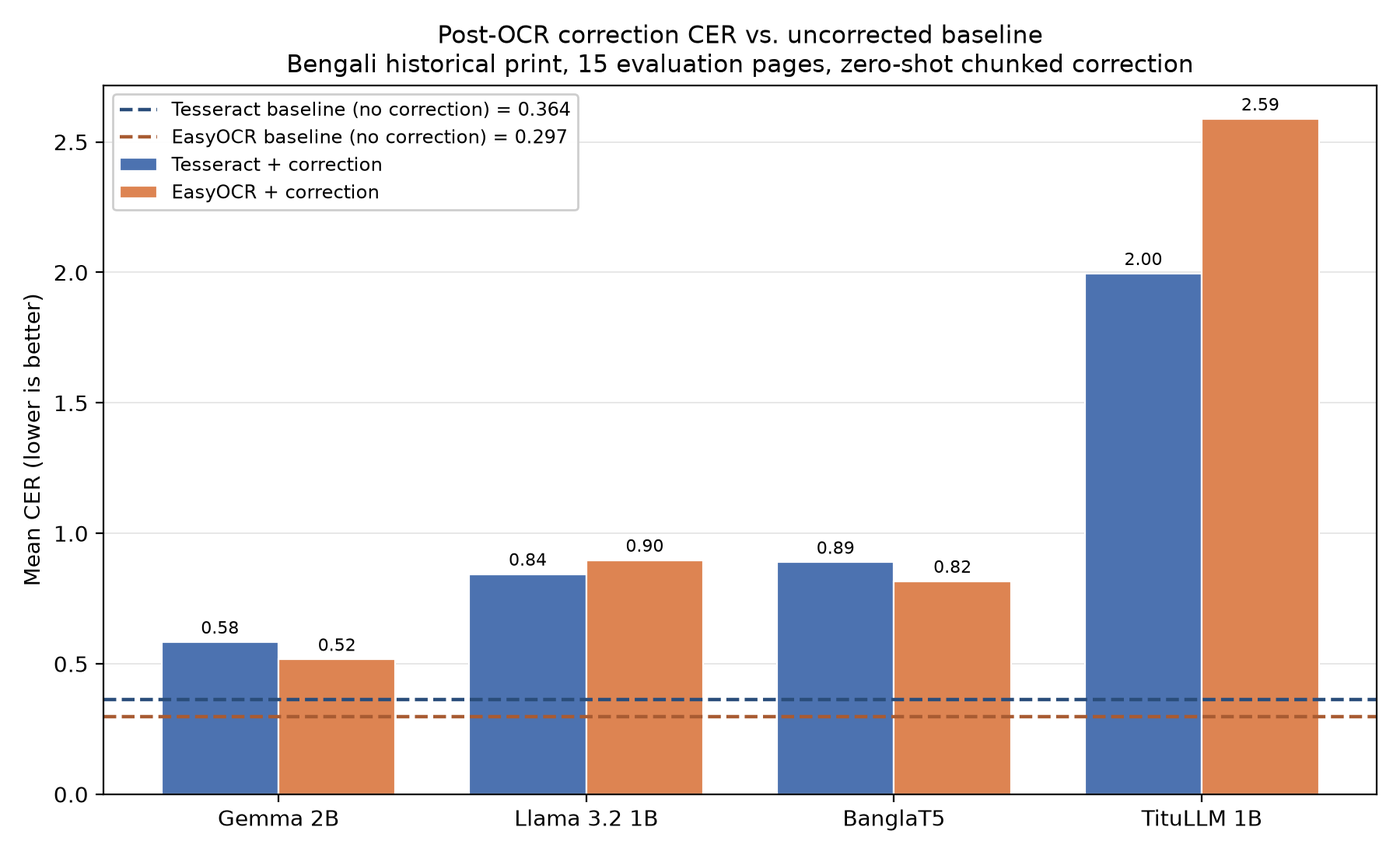
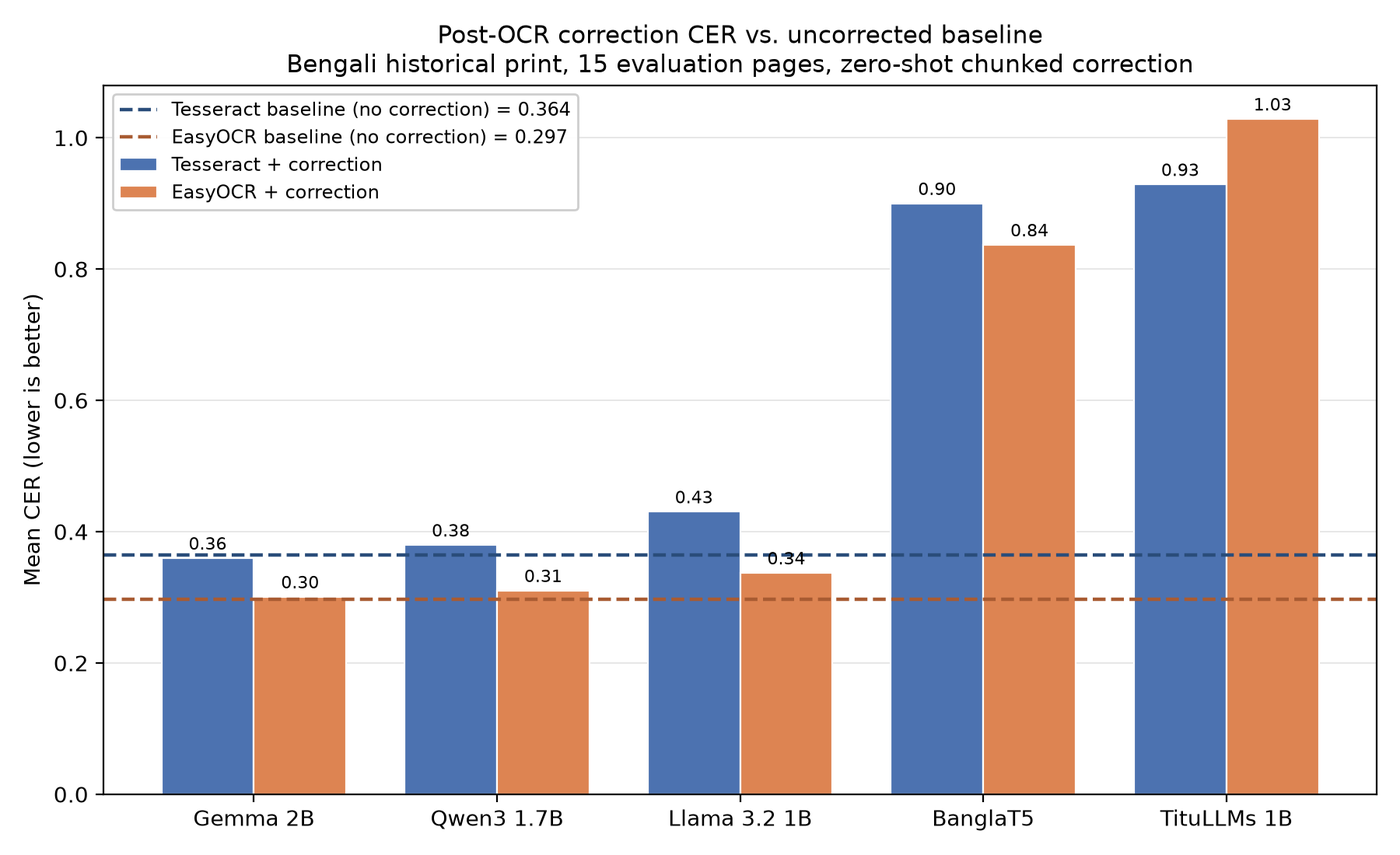
Rewrite Methods details, Results and Failure Analysis for plain decoding
Results now report the plain-decoding runs with Qwen3 1.7B added, a new
decoding-ablation subsection, measured parameter counts, and disclosure that
the repetition guards were added after seeing dev output. Figures 1-3 are
regenerated; the truncation figure and its correlation claim are dropped.
Title, abstract, introduction, discussion and conclusion are still stale.

diff --git a/paper/main.tex b/paper/main.tex
@@ -105,7 +105,7 @@ Two open-source engines produce the noisy text: Tesseract~\cite{smith2007tessera
 \subsection{Correction layer}
 \textbf{Zero-shot.} Here, zero-shot evaluation uses no worked correction examples or task-specific weight updates. The decoder models receive an instruction and the OCR text; BanglaT5 receives the text alone, as detailed below. We chose this setting because we know of no large public set of Bengali OCR error pairs for training, and because it avoids the cost of task-specific training.
 
-\textbf{Prompt.} The three decoder models receive the same instruction, through each model's chat template:
+\textbf{Prompt.} The four decoder models receive the same instruction, through each model's chat template:
 \begin{quote}
 \small\itshape
 The following text was produced by OCR on a historical Bengali document and may contain recognition errors. Correct the OCR errors and output only the corrected Bengali text, with no explanation, preamble, or additional commentary.
@@ -114,16 +114,17 @@ The OCR text follows the instruction. BanglaT5 is not instruction-tuned and has 
 
 \textbf{Chunking.} Following Kanerva et al.~\cite{kanerva2025nofreelunches}, each page is divided into chunks of about 250 tokens of the model's own tokenizer before correction. Chunks are formed by grouping complete lines, so no chunk boundary falls inside a line. A page whose raw OCR is shorter than ten characters would be left unchanged, since the model would have almost nothing to work from; no evaluation page triggered this rule.
 
-\textbf{Decoding.} Decoding is greedy, so output is deterministic. We use a repetition penalty of 1.3 and forbid repeated four-grams, a guard added after a development-set run in which one model repeated a single phrase until it reached the length limit. The maximum number of new tokens is $\min(512,\max(64,1.5n))$, where $n$ is the token length of the input chunk. An output that reaches this limit is counted as truncated.
+\textbf{Decoding.} Decoding is greedy, so output is deterministic. The maximum number of new tokens is $\min(512,\max(64,1.5n))$, where $n$ is the token length of the input chunk, and an output that reaches this limit is counted as truncated. No other constraint is applied. Our first runs also used a repetition penalty of 1.3 and banned repeated four-grams. We added these two settings after a development-set run in which one model repeated a single phrase until it reached the length limit, so, unlike the prompt, they were chosen after seeing model output. In the generation function of the Transformers library~\cite{wolf2020transformers}, both settings act on the whole token sequence, which for a decoder-only model includes the prompt and therefore the OCR text being corrected. They penalise every token the model copies from its input and forbid it from reproducing any four-token run of that input. Because correction consists mostly of copying, we use the setting without them as the main condition and report the original setting as a decoding ablation (Section~\ref{sec:decoding}).
 
 \subsection{Choice of models}
-We planned five models and evaluated four, all small enough for CPU inference. Phi-3 Mini (3.8B) was implemented but not run to completion: even the four evaluated models took between about two and fourteen minutes per page on average, and up to 26 minutes for one page, and a 3.8-billion-parameter model did not fit the available budget.
+We evaluate five models, all small enough for CPU inference. The parameter counts below are computed from each checkpoint's configuration, with tied input and output embeddings counted once.
 \begin{itemize}
-\item \emph{Llama 3.2 1B}~\cite{meta2024llama32} and \emph{Gemma 2B}~\cite{gemma2024} are widely used open instruction-tuned models that represent general-purpose multilingual models. Bengali is a very small share of their pretraining data~\cite{zehady2026banglallama}.
+\item \emph{Llama 3.2 1B} (1.24B parameters)~\cite{meta2024llama32} and \emph{Gemma 2B} (2.51B)~\cite{gemma2024} are open instruction-tuned models that represent general-purpose multilingual models. Bengali is a very small share of their pretraining data~\cite{zehady2026banglallama}.
+\item \emph{Qwen3 1.7B} (1.72B)~\cite{yang2025qwen3} is a general-purpose model released in 2025, added in revision to test whether a more recent model behaves differently. It can produce a reasoning trace before its answer; we disable this through its chat template, so it answers directly.
 \item \emph{TituLLMs 1B}~\cite{nahin2025titullms} is a Bengali-pretrained model built on Llama 3.2 1B with an extended tokenizer. It has the same size and base architecture as Llama 3.2 1B, which supports a comparison at a similar parameter count. The extended tokenizer and possible differences in other training details prevent this comparison from isolating the effect of Bengali pretraining.
 \item \emph{BanglaT5} (about 248M parameters)~\cite{bhattacharjee2023banglat5} is a Bengali sequence-to-sequence model. Its text-to-text architecture provides a sequence-to-sequence baseline for correction. It is used as released, without fine-tuning.
 \end{itemize}
-BanglaBERT~\cite{bhattacharjee2022banglabert} was not considered because it is an encoder and cannot generate corrected text. All models are loaded with the Transformers library~\cite{wolf2020transformers} in bfloat16.
+Phi-3 Mini (3.8B) was implemented but not run to completion: the evaluated models took between about two and fourteen minutes per page on average, and up to 30 minutes for one page, and a 3.8-billion-parameter model did not fit the available budget. BanglaBERT~\cite{bhattacharjee2022banglabert} was not considered because it is an encoder and cannot generate corrected text. All models are loaded with the Transformers library~\cite{wolf2020transformers} in bfloat16.
 
 \subsection{Deployment setting}
 All models run in CPU-only mode on a free Google Colab runtime. This approximates the setting that motivates the work: institutions in Bangladesh that process large volumes of Bengali documents and typically lack GPU infrastructure. No paid API is used at any stage.
@@ -131,7 +132,7 @@ All models run in CPU-only mode on a free Google Colab runtime. This approximate
 \subsection{Evaluation protocol}
 \textbf{Normalisation and metrics.} Before scoring, reference and hypothesis are normalised to Unicode NFC and runs of whitespace are collapsed, because Bengali conjuncts and vowel signs can be encoded as different codepoint sequences that look identical. CER and WER are computed with jiwer~\cite{vaessen2022jiwer} for each page and averaged over pages, so every page counts equally regardless of its length. CER is unbounded: an output with more erroneous characters than the reference has characters scores above 1. We therefore also report the character match error rate, $\mathrm{cMER}=(S+D+I)/(H+S+D+I)$, which counts insertions in the denominator and is bounded in $[0,1]$~\cite{ehrmann2026hipeocrepair}. Here $H$, $S$, $D$ and $I$ are the numbers of matched, substituted, deleted and inserted characters.
 
-\textbf{Statistical testing.} For each engine and model, the unit of analysis is the per-page difference between the corrected and the uncorrected error rate. We report the mean difference with a 95\% percentile interval from a paired bootstrap of the 15 pages (10{,}000 resamples, seed 403). We also run a two-sided Wilcoxon signed-rank test~\cite{wilcoxon1945} on the same differences and adjust the $p$-values with the Holm procedure~\cite{holm1979} over the 16 CER and WER tests, which follows the reporting of Viana~\cite{viana2026reframing}.
+\textbf{Statistical testing.} For each engine and model, the unit of analysis is the per-page difference between the corrected and the uncorrected error rate. We report the mean difference with a 95\% percentile interval from a paired bootstrap of the 15 pages (10{,}000 resamples, seed 403). We also run a two-sided Wilcoxon signed-rank test~\cite{wilcoxon1945} on the same differences and adjust the $p$-values with the Holm procedure~\cite{holm1979} over the 20 CER and WER tests, which follows the reporting of Viana~\cite{viana2026reframing}.
 
 \textbf{Validation.} The held-out split was frozen before any model ran, and development pages are never scored. We used one fixed held-out evaluation set and did not perform cross-validation. No model was trained, and deterministic decoding was not repeated with different seeds. Each page is paired with its own uncorrected text.
 
@@ -147,83 +148,84 @@ The page lists, the correction prompt, and the OCR, correction, scoring and stat
 % =====================================================================
 \section{Results}
 
-Results compare each corrected output with its corresponding raw OCR baseline. We also examine differences between engines, variation across pages and results under the bounded error metric.
+Results compare each corrected output with its corresponding raw OCR baseline. Unless stated otherwise, they use plain greedy decoding (Section~\ref{sec:decoding} reports the original decoding setting). We also examine differences between engines, variation across pages and results under the bounded error metric.
 
 \subsection{Baseline OCR performance}
-Table~\ref{tab:baseline} gives the error rates of the raw OCR text before any correction. EasyOCR is better than Tesseract on all three metrics (CER 0.297 against 0.364). This agrees with the weakness of Tesseract on Bengali reported in earlier work~\cite{zulkarnain2023bbocr,rabby2024enhancement}. We did not find a published comparison of the two engines on historical Bengali print, and our pages are 19th-century books, several of them verse or title pages in ornate type, on which EasyOCR appears to degrade less. Both baselines are high in absolute terms: EasyOCR, the better engine, has a CER of 0.297 and a WER of 0.719.
+Table~\ref{tab:baseline} gives the error rates of the raw OCR text before any correction. EasyOCR is better than Tesseract on all three metrics (CER 0.297 against 0.364). This agrees with the high Tesseract error rates on Bengali reported in earlier work~\cite{zulkarnain2023bbocr,rabby2024enhancement}. We did not find a published comparison of the two engines on historical Bengali print. Both baselines are high in absolute terms: EasyOCR, the better engine, has a CER of 0.297 and a WER of 0.719.
 
 \input{tables/baseline}
 
 \subsection{Effect of correction}
-Table~\ref{tab:matrix} gives the full evaluation matrix, and Figs.~\ref{fig:cer} and~\ref{fig:ci} show the same result graphically. Both metrics increased in all eight engine-and-model combinations. Fifteen of the 16 resulting increases (two metrics per combination) are significant, both under the bootstrap and under the Holm-corrected Wilcoxon test. The one exception is Tesseract with BanglaT5 on WER, whose interval spans zero ($[-0.101,+0.397]$, Holm $p=0.15$). The largest effect is TituLLMs on EasyOCR output, where CER rises from 0.297 to 2.588, about nine times the baseline. A CER above 1 means the output contains more erroneous characters than the reference has characters.
+Table~\ref{tab:matrix} gives the full evaluation matrix, and Figs.~\ref{fig:cer} and~\ref{fig:ci} show the same result graphically. No model lowered the mean error rate significantly for either engine. Of the 20 CER and WER comparisons, six are significant after Holm correction, and all six are increases: BanglaT5 on CER and TituLLMs on CER and WER, for both engines. TituLLMs on EasyOCR output has the largest increase, from a CER of 0.297 to 1.029.
+
+The three general-purpose models stay close to the baseline. Gemma 2B ends at a CER of 0.360 on Tesseract output and 0.301 on EasyOCR output, against baselines of 0.364 and 0.297, and Qwen3 1.7B at 0.380 and 0.310; none of these differences is significant, and every bootstrap interval spans zero. Llama 3.2 1B raises CER to 0.430 and 0.337. Its bootstrap intervals lie above zero ($[+0.018,+0.116]$ and $[+0.005,+0.082]$), but the Holm-corrected Wilcoxon test does not reject the null hypothesis ($p=0.16$ and $p=0.36$). Its WER does not change significantly.
 
 \input{tables/eval_matrix}
 
 \begin{figure}[t]
 \centering
 \includegraphics[width=\columnwidth]{figures/fig1_cer_by_model.png}
-\caption{Mean CER over the 15 pages after correction, by model and OCR engine. The dashed lines mark the uncorrected baselines (Tesseract 0.364, EasyOCR 0.297). Every bar lies above both baselines.}
+\caption{Mean CER over the 15 pages after correction, by model and OCR engine. The dashed lines mark the uncorrected baselines (Tesseract 0.364, EasyOCR 0.297).}
 \label{fig:cer}
 \end{figure}
 
 \begin{figure}[t]
 \centering
 \includegraphics[width=\columnwidth]{figures/fig2_bootstrap_ci.png}
-\caption{Mean change in CER (corrected minus uncorrected) for each model and engine, with 95\% paired-bootstrap intervals over the 15 pages. A value above zero means correction made the text worse. Every interval lies to the right of zero, and the two engines nearly coincide for three of the four models.}
+\caption{Mean change in CER (corrected minus uncorrected) for each model and engine, with 95\% paired-bootstrap intervals over the 15 pages. A value above zero means correction made the text worse.}
 \label{fig:ci}
 \end{figure}
 
+\subsection{Effect of the decoding setting}
+\label{sec:decoding}
+Table~\ref{tab:decoding} compares the original decoding setting, with the repetition penalty and the four-gram ban, against plain greedy decoding. For the three decoder-only models that were run in both settings, removing the two constraints lowered CER significantly for both engines: by 0.22 for Gemma 2B, by 0.41 and 0.56 for Llama 3.2 1B, and by 1.07 and 1.56 for TituLLMs. Under the original setting Gemma 2B raised CER from 0.364 to 0.583 and from 0.297 to 0.517; under plain decoding it returns the input almost unchanged, with a median CER of 0.012 and 0.005 between its output and its own input. Most of the error increase that the original setting produced for these models is therefore attributable to the decoding constraints and not to the models' corrections. BanglaT5, an encoder-decoder model whose decoder does not see the input tokens as its own history, changed by 0.011 and 0.020. Qwen3 1.7B was added after this comparison and was run with plain decoding only.
+
+\input{tables/decoding}
+
 \subsection{The engine-agnostic question}
-Correction increased the error rate for both engines, although the size of the increase differed by model. For Gemma 2B and BanglaT5 the CER differences agree to within 0.01 (0.219 against 0.220, and 0.525 against 0.519), and for Llama 3.2 1B to within 0.12 (0.480 against 0.600). TituLLMs differs more (1.632 against 2.291), but is the worst model for both engines. The direction was consistent across the two engines; these descriptive comparisons do not establish equivalence in effect size.
+The ranking of the models is the same for both engines: Gemma 2B, Qwen3 1.7B, Llama 3.2 1B, BanglaT5 and TituLLMs, from lowest to highest corrected CER. The changes in CER agree closely for Gemma 2B ($-0.004$ against $+0.004$), Qwen3 1.7B ($+0.016$ against $+0.013$) and BanglaT5 ($+0.536$ against $+0.540$), and less closely for Llama 3.2 1B ($+0.066$ against $+0.040$) and TituLLMs ($+0.565$ against $+0.732$), Tesseract first. These are descriptive comparisons; they do not establish equivalence in effect size.
 
 \subsection{Per-page analysis}
-Across the 120 page-level cells (15 pages, 4 models, 2 engines), correction lowered CER in three (2.5\%). All three are on the same page, the Tesseract page with the highest baseline CER (0.882); the lowest corrected CER on that page is 0.803. On the bounded cMER, none of the 120 cells improved. Figure~\ref{fig:perpage} shows the baseline curve below every model on every page except that one.
+Across the 150 page-level cells (15 pages, 5 models, 2 engines), correction lowered CER in 27: 14 for Qwen3 1.7B, 9 for Gemma 2B and 4 for Llama 3.2 1B. BanglaT5 and TituLLMs lowered CER on no page. Figure~\ref{fig:perpage} shows that the general-purpose models track the baseline closely, while BanglaT5 and TituLLMs stay near or above a CER of 0.8 on most pages.
 
-The size of the increase also varies with page difficulty. When the pages are split into thirds by baseline CER, the increase in CER is smallest on the hardest third in each of the eight engine-and-model cells. For Llama 3.2 1B on Tesseract output, for example, the increase is $+0.69$ on the easiest third and $+0.23$ on the hardest. The HIPE-OCRepair task also reports over-correction of low-noise input~\cite{ehrmann2026hipeocrepair}.
+For the models that changed the text substantially, the increase depends on page difficulty. When the pages are split into thirds by baseline CER, BanglaT5 and TituLLMs have their smallest increase on the hardest third for both engines; for TituLLMs on Tesseract output, for example, the increase is $+0.85$ on the easiest third and $+0.26$ on the hardest. Llama 3.2 1B shows the same pattern on a smaller scale ($+0.10$ on the easiest third of Tesseract pages and $-0.002$ on the hardest). The changes for Gemma 2B and Qwen3 1.7B stay within 0.03 of zero in every third. The HIPE-OCRepair task also reports over-correction of low-noise input~\cite{ehrmann2026hipeocrepair}.
 
 \begin{figure*}[t]
 \centering
 \includegraphics[width=0.9\textwidth]{figures/fig3_per_page.png}
-\caption{CER per evaluation page, with pages sorted from easiest to hardest by baseline CER, for Tesseract (left) and EasyOCR (right). The solid black line is the uncorrected baseline; each dashed line is one correction model. The baseline lies below every model on every page except the hardest Tesseract page, where three models end below it.}
+\caption{CER per evaluation page, with pages sorted from easiest to hardest by baseline CER, for Tesseract (left) and EasyOCR (right). The solid black line is the uncorrected baseline; each dashed line is one correction model.}
 \label{fig:perpage}
 \end{figure*}
 
 \subsection{Bounded error rate}
-Because CER can exceed 1, we repeated the analysis with cMER (Table~\ref{tab:damage}). The baseline cMER is 0.336 for Tesseract and 0.257 for EasyOCR, and the corrected values range from 0.471 to 0.889. TituLLMs, whose CER reached 2.588, has a cMER of 0.876 on Tesseract text and 0.880 on EasyOCR text. The two scales therefore differ most for TituLLMs, but the conclusion is the same on both: all eight cMER tests are significant after Holm correction.
+Because CER can exceed 1, we repeated the analysis with cMER (Table~\ref{tab:damage}). The baseline cMER is 0.336 for Tesseract and 0.257 for EasyOCR. Six of the ten cMER tests are significant after Holm correction, all of them increases: Llama 3.2 1B (0.416 and 0.306), BanglaT5 (0.900 and 0.835) and TituLLMs (0.703 and 0.669). Gemma 2B (0.336 and 0.262) and Qwen3 1.7B (0.353 and 0.272) do not differ significantly from the baseline. The two metrics therefore agree except for Llama 3.2 1B, whose CER increase is not significant after Holm correction but whose cMER increase is.
 
 % =====================================================================
 \section{Failure Analysis}
 
-To characterize the observed error increases, we examine word retention, edit operations and truncation. We then evaluate whether a length-based fallback reduces those increases.
+To characterize what correction changed, we examine word retention, edit operations and truncation. We then evaluate whether a length-based fallback reduces the error increases.
 
 \subsection{Word retention and word-level changes}
-Table~\ref{tab:diagnostics} reports how many ground-truth words each output retains. Raw Tesseract output keeps 46\% of the distinct ground-truth words and raw EasyOCR output 55\%. After correction, retention falls to 13\% for Gemma 2B and to between 2\% and 4\% for the other three models. The word-level counts in Table~\ref{tab:damage} separate correct words that were changed from wrong words that were fixed. Of the words that the raw OCR had read correctly, the models broke between 76\% and 99.5\%, and of the words it had read wrongly they fixed between 0.9\% and 5.5\%. The change ratio is above 1 for every model: it is 1.7 to 1.9 for Gemma 2B and 10.0 to 14.2 for TituLLMs.
+Table~\ref{tab:diagnostics} reports how many ground-truth words each output retains. Raw Tesseract output keeps 46\% of the distinct ground-truth words and raw EasyOCR output 55\%. Pooled over both engines, Gemma 2B and Qwen3 1.7B keep 49\% and 50\%, Llama 3.2 1B 45\%, TituLLMs 17\% and BanglaT5 2\%. The word-level counts in Table~\ref{tab:damage} separate correct words that were changed from wrong words that were fixed. Gemma 2B broke 1\% and 3\% of the words the raw OCR had right and fixed almost none of those it had wrong (0.4\% and 0.0\%). Qwen3 1.7B is the only model whose repairs come close to its damage: on Tesseract text it fixed 47 wrong words and broke 62 correct ones, and on EasyOCR text 42 and 45. Llama 3.2 1B broke 15\% and 10\% and fixed 0.8\% and 1.8\%. BanglaT5 and TituLLMs broke between 76\% and 99\% of the correct words. The change ratio is below 1 for the three general-purpose models (0.1 for Gemma 2B, 0.3 to 0.4 for Qwen3 1.7B and 0.5 to 0.8 for Llama 3.2 1B) and above 4 for BanglaT5 and TituLLMs.
 
 \input{tables/diagnostics}
 
 \input{tables/damage}
 
 \subsection{Edit profiles by model}
-The models differ in which edit operations increase. The counts below are per page, measured against the ground truth.
+The models differ in which edit operations change. The counts below are per page, measured against the ground truth.
 
-\emph{BanglaT5.} Its output is on average 0.34 times the reference length. Deletions rise from 72 to 667 per page on Tesseract text and from 64 to 524 on EasyOCR text, and insertions fall to near zero. The output is often a short string of punctuation and digits. BanglaT5 is not instruction-tuned and was not fine-tuned for correction, which may account for this, but we did not test it.
+\emph{BanglaT5.} Its output is on average 0.33 times the reference length. Deletions rise from 72 to 671 per page on Tesseract text and from 64 to 537 on EasyOCR text, and insertions fall to near zero. Over a third of its non-space output characters are neither Bengali nor Latin letters, that is, punctuation, ASCII digits and other symbols. BanglaT5 is not instruction-tuned and was not fine-tuned for correction, which may account for this, but we did not test it.
 
-\emph{TituLLMs.} Its output is 2.58 times the reference length, 40\% of its characters are Bengali and 34\% are Latin, and it reached the generation limit on all 30 pages (15 per engine). Insertions rise from 37 to 1{,}106 per page on Tesseract text and from 72 to 1{,}604 on EasyOCR text; between 44\% and 52\% of its output consists of runs of at least six characters absent from the input. On one devotional page (14076\_a\_2\_0006) the output is English commentary on a word from the first line instead of corrected Bengali text. It begins by explaining the word as meaning to be at war against one's enemies and as an epithet of Indra, goes on to discuss figures from Sanatan mythology that do not appear in the input, and continues in English for several more sentences. The prompt asked for the corrected Bengali text only.
+\emph{TituLLMs.} Its output is 1.40 times the reference length, and it reached the generation limit on all 30 pages (15 per engine). Substitutions rise from 135 to 468 per page on Tesseract text and from 93 to 405 on EasyOCR text, and insertions from 37 to 318 and from 72 to 444. In 17 of its 30 outputs, a segment of at least 20 characters (split at danda, line breaks and vertical bars) recurs three or more times; no other model produced such a repetition. Under the original decoding setting the same model produced English commentary instead (34\% of its output characters were Latin, against 1\% with plain decoding). On one devotional page (14076\_a\_2\_0006) that output explained a word from the first line as meaning to be at war against one's enemies and as an epithet of Indra, and went on to discuss figures from Sanatan mythology that do not appear in the input.
 
-\emph{Llama 3.2 1B.} Substitutions more than triple, from 135 to 447 per page on Tesseract text and from 93 to 414 on EasyOCR text, and it reached the generation limit on 19 of the 30 pages. \emph{Gemma 2B} has the output length closest to the reference (0.88 times) and never reached the generation limit. It has the smallest CER increase, but its edit counts also rise: on Tesseract text, substitutions go from 135 to 193 and deletions from 72 to 206 per page.
+\emph{Llama 3.2 1B.} Deletions more than double, from 72 to 174 per page on Tesseract text and from 64 to 115 on EasyOCR text, while insertions fall. Its output is 0.88 times the reference length. \emph{Gemma 2B} and \emph{Qwen3 1.7B} have output lengths close to the reference (0.98 and 1.04 times) and change little: the CER between Gemma's output and its own input averages 0.02 for both engines, and for Qwen3 1.7B 0.09 and 0.04. Gemma 2B leaves the per-page substitution, deletion and insertion counts nearly unchanged (135 to 134, 72 to 75 and 37 to 32 on Tesseract text).
 
 \subsection{Truncation}
-Across the eight engine-and-model conditions, the rate of truncation correlates with mean CER at $r=0.84$ (Fig.~\ref{fig:trunc}). Truncation may be a symptom of degenerate output and not an independent cause, but we did not test this. BanglaT5 reached the generation limit on only one page of 15 per engine, yet its CER on Tesseract text is 0.889, so a high error rate does not require truncation.
-
-\begin{figure}[t]
-\centering
-\includegraphics[width=\columnwidth]{figures/fig4_truncation.png}
-\caption{Truncation rate against mean CER for the eight engine-and-model conditions. Each point is one condition; the horizontal axis is the percentage of pages on which the output reached the generation limit, and the vertical axis is the mean CER of the corrected text. The correlation is $r=0.84$.}
-\label{fig:trunc}
-\end{figure}
+TituLLMs reached the generation limit on every page. The other models reached it on at most two of the 15 pages per engine: never for Gemma 2B, on one page for Qwen3 1.7B and Llama 3.2 1B, and on two for BanglaT5.
 
 \subsection{Effect of the length safeguard}
-The last column of Table~\ref{tab:damage} applies the length safeguard. The safeguard reduces some errors associated with large changes in output length: TituLLMs falls back to the raw OCR on 5 to 7 of 15 pages, and BanglaT5 on Tesseract text on 13 of 15, which cuts its CER from 0.889 to 0.434. Even so, no model beats the uncorrected text. In seven of the eight conditions, the safeguarded output is still significantly worse than the raw OCR after Holm correction. The exception is BanglaT5 on Tesseract text, which ends 0.07 above the baseline (not significant after Holm correction); 13 of its 15 pages revert to the raw OCR, so most outputs in that condition are unchanged OCR text. Gemma 2B triggers the safeguard on at most one page, since its outputs stay close to the input length.
+The last column of Table~\ref{tab:damage} applies the length safeguard. Only BanglaT5 triggers it, on 13 of 15 Tesseract pages and 7 of 15 EasyOCR pages. Its safeguarded CER falls from 0.900 to 0.429 and from 0.837 to 0.559, which is still above the baseline but no longer significantly different from it after Holm correction ($p=0.72$ and $p=0.09$); on Tesseract text most of its pages simply revert to the raw OCR. TituLLMs never triggers the safeguard, because its outputs stay within the 0.35 to 2.8 length range, and it remains significantly worse than the raw OCR ($p<0.001$ for both engines). The outputs of the other three models are never replaced, so their scores do not change. No safeguarded output is significantly better than the raw OCR.
 
 % =====================================================================
 \section{Discussion}

diff --git a/eval/make_figures.py b/eval/make_figures.py
@@ -27,12 +27,13 @@ from metrics import score_pair
 REPO_ROOT = Path(__file__).resolve().parent.parent
 
 # Fixed order best-to-worst so every figure tells the story the same way.
-MODEL_ORDER = ["gemma-2b", "llama3.2-1b", "banglat5", "titullm-1b"]
+MODEL_ORDER = ["gemma-2b", "qwen3-1.7b", "llama3.2-1b", "banglat5", "titullm-1b"]
 MODEL_LABELS = {
     "gemma-2b": "Gemma 2B",
+    "qwen3-1.7b": "Qwen3 1.7B",
     "llama3.2-1b": "Llama 3.2 1B",
     "banglat5": "BanglaT5",
-    "titullm-1b": "TituLLM 1B",
+    "titullm-1b": "TituLLMs 1B",
 }
 ENGINE_LABELS = {"tesseract": "Tesseract", "easyocr": "EasyOCR"}
 ENGINE_COLORS = {"tesseract": "#4C72B0", "easyocr": "#DD8452"}
@@ -141,8 +142,8 @@ def fig2_bootstrap_ci(bootstrap_results, out_dir):
     ])
     ax.set_xlabel("Mean ΔCER (corrected − baseline); positive = correction made it worse")
     ax.set_title(
-        "Paired bootstrap: every model significantly increased CER\n"
-        "10,000 resamples over 15 pages, 95% percentile intervals",
+        "Change in CER after correction, with paired-bootstrap 95% intervals\n"
+        "10,000 resamples over 15 pages",
         fontsize=11,
     )
     handles = [
@@ -196,7 +197,7 @@ def fig3_per_page(baseline, cells, out_dir):
     axes[0].set_ylabel("CER (lower is better)")
     axes[0].legend(fontsize=8.5, framealpha=0.95)
     fig.suptitle(
-        "Per-page CER: correction sits above the baseline on essentially every page",
+        "Per-page CER after correction against the uncorrected baseline",
         fontsize=12,
     )
     fig.tight_layout()
@@ -321,6 +322,9 @@ def main():
     out_dir.mkdir(parents=True, exist_ok=True)
 
     baseline, cells, flags = load(ocr_path, correction_path)
+    # Only the models this results file has (the guarded runs have no Qwen3).
+    global MODEL_ORDER
+    MODEL_ORDER = [m for m in MODEL_ORDER if all((e, m) in cells for e in ENGINE_LABELS)]
     bootstrap_results = json.loads(
         bootstrap_json.read_text(encoding="utf-8")
     )["results"]

diff --git a/context/open-items.md b/context/open-items.md
@@ -85,3 +85,7 @@ Note: TituLLMs plain on 279_34_D_26_0007 scored 0.956 in the local smoke test an
 **Qwen3 1.7B, plain, 15 pages × both engines (Colab CPU, 2026-10-10):** CER Tess 0.380 vs OCR 0.364 (+0.016 [−0.007, +0.047], n.s.); Easy 0.310 vs 0.297 (+0.013 [−0.005, +0.035], n.s.). WER slightly lower, n.s. Sample output is a near-copy of the OCR input, Latin-script garbage included. So a 2025 model behaves like Gemma: it mostly echoes and neither helps nor hurts. The negative result is not specific to 2024-era models.
 
 **Paper tables regenerated from the plain runs (2026-10-10).** `make_paper_tables.py` now defaults to the plain-decoding files and also writes `paper/tables/decoding.tex` (guarded vs plain; no Qwen row since Qwen has no guarded run). Correction to the note above: Llama's CER increase is significant by bootstrap CI but **not** after Holm-corrected Wilcoxon (Tess p=0.16, Easy p=0.36), the paper's primary test. Under that test only BanglaT5 and TituLLMs are significantly worse; Gemma, Qwen and Llama are not significantly different from raw OCR. `main.tex` text and the figures still describe the old guarded results; they need rewriting next.
+
+**main.tex partly rewritten (2026-10-10).** Done: Methods (Decoding paragraph now discloses that the guards were added after seeing dev output and explains why they penalise copying; Choice of models adds Qwen3 1.7B and measured parameter counts: Gemma 2.51B, Qwen3 1.72B, Llama/TituLLMs 1.24B, BanglaT5 ~248M; Holm family now 20 tests), the whole Results section (new "Effect of the decoding setting" subsection with `tables/decoding.tex`) and the whole Failure Analysis. Figures 1–3 regenerated from the plain runs; the truncation figure and its r=0.84 claim are dropped (reviewer F3). Qwen3 citation added (arXiv:2505.09388, checked).
+**Still stale (describe the old result):** title, abstract, introduction (RQ1 "at most two billion", "Correction increased error rates for both engines", contributions), Discussion (RQ answers, relation to prior work, explanations, practical implications, the "No output filter" limitation that quotes Gemma 0.364→0.583), Conclusion.
+**Open question:** the paper says TituLLMs has an extended tokenizer, but the v1.1 checkpoint config has the same vocab size as Llama 3.2 1B (128,256). Check the TituLLMs paper/model card before keeping that sentence.
